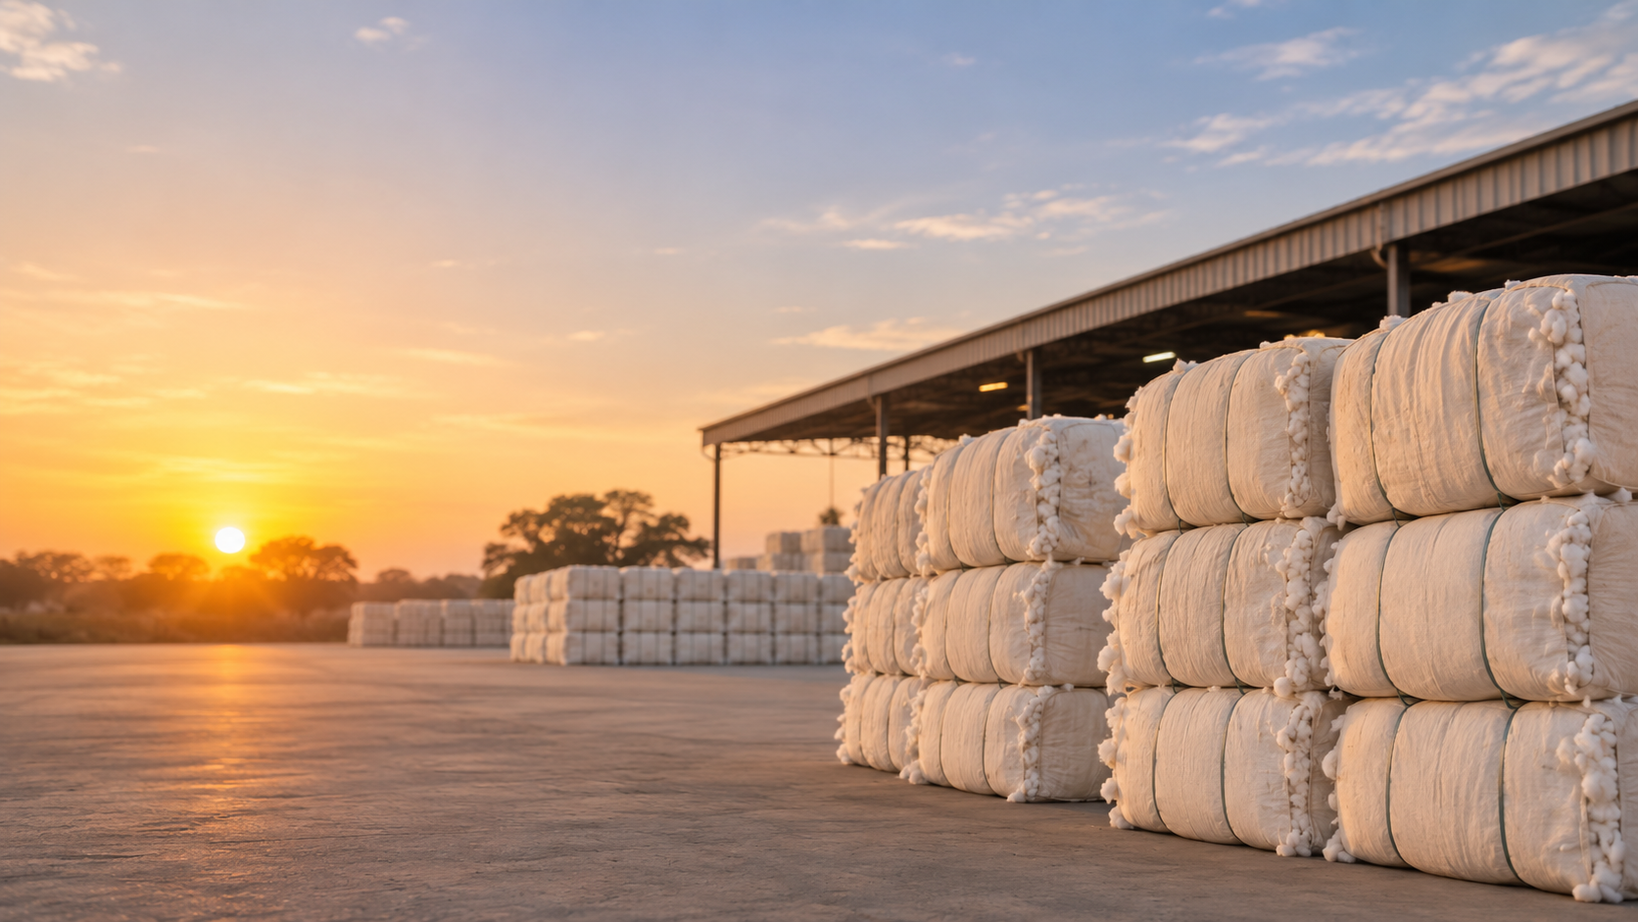
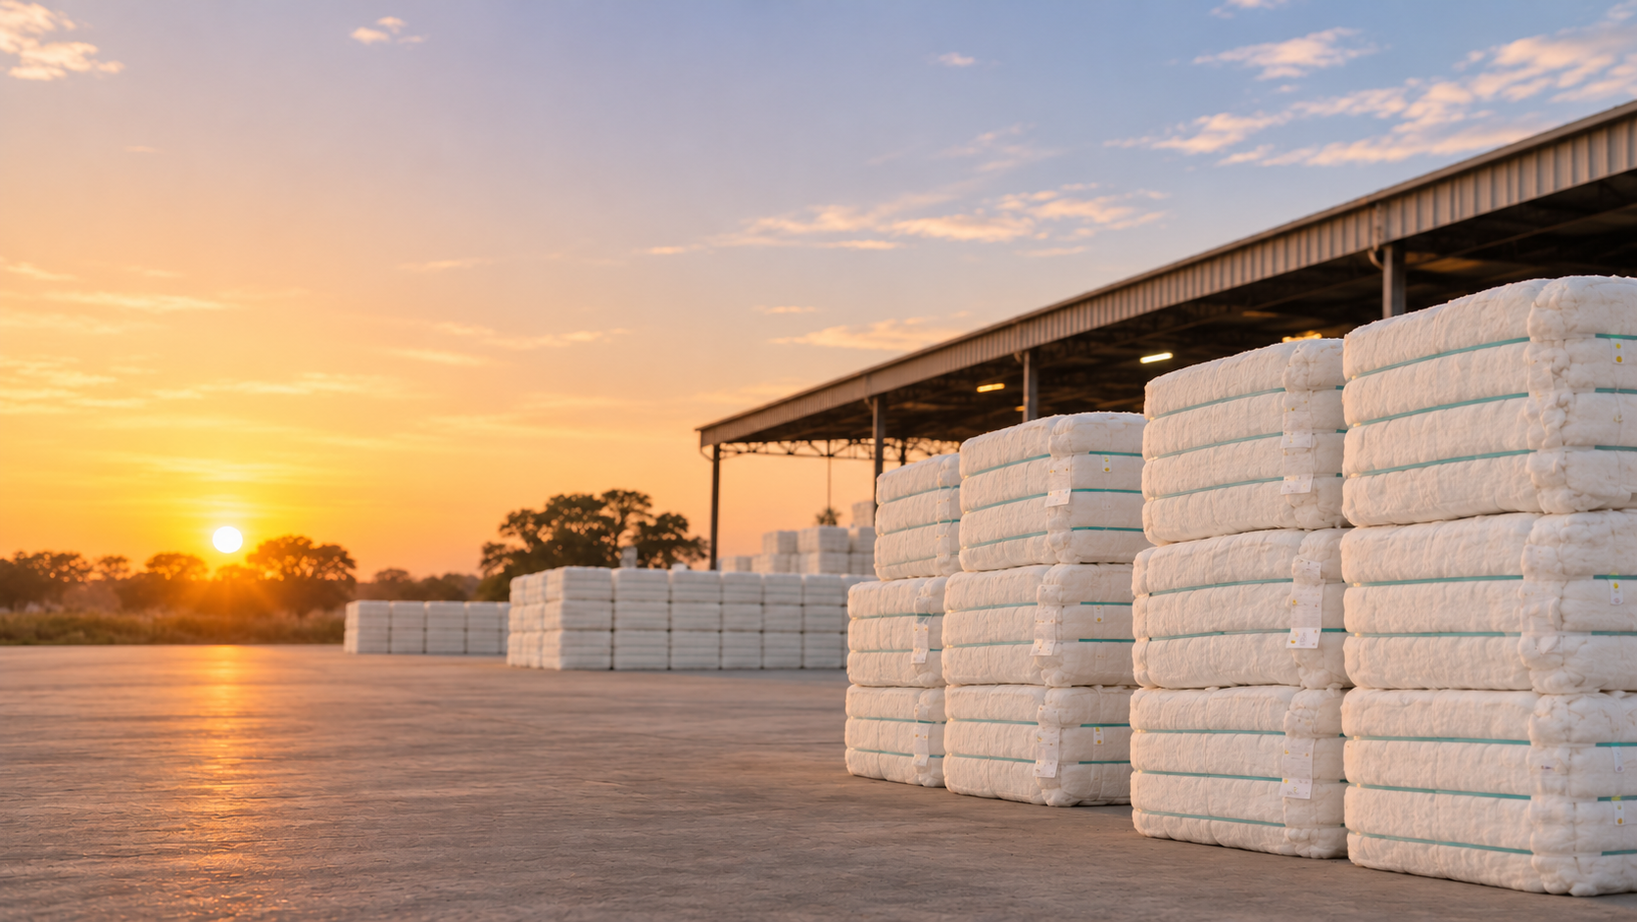
Update: Hero image

diff --git a/src/app/page.tsx b/src/app/page.tsx
@@ -353,43 +353,59 @@ export default function Home() {
         </section>
 
         {/* ---------- Contact Section ---------- */}
-        <section id="contact" className="relative z-20 py-24 sm:py-28 bg-[#1f2a44] text-[#f6f1e8]">
+        <section
+          id="contact"
+          className="relative z-20 py-20 sm:py-24 bg-[#f6f1e8] border-t border-[#b08d57]/20 text-[#2a1e17]"
+        >
           <div className="max-w-6xl mx-auto px-6">
-            <div className="reveal max-w-3xl">
-              <p className="text-xs uppercase font-semibold tracking-[0.24em] text-[#d9bc8a] mb-3">
-                Get in touch
-              </p>
-              <h2 className="font-serif text-3xl sm:text-4xl md:text-5xl text-white font-semibold mb-4">
-                Kalpdaksh Commotrade Pvt Ltd
-              </h2>
-              <p className="text-lg text-[#f6f1e8]/90 font-light mb-2">
-                Indore, Madhya Pradesh, India
-              </p>
-
-              <div className="text-xs text-[#d9bc8a]/80 italic mt-2 mb-8">
-                Direct trade desk inquiries and mill orders are serviced from Indore.
+            <div className="reveal grid grid-cols-1 lg:grid-cols-12 gap-10 lg:gap-12 items-start">
+              {/* Left Editorial Intro */}
+              <div className="lg:col-span-5">
+                <p className="text-xs uppercase font-semibold tracking-[0.24em] text-[#8c6a38] mb-3">
+                  Get in touch
+                </p>
+                <h2 className="font-serif text-3xl sm:text-4xl text-[#2a1e17] font-semibold leading-tight mb-4">
+                  Direct brokerage, handled from Indore.
+                </h2>
+                <p className="text-[#4a3b32] text-base leading-relaxed mb-6">
+                  Reach our trade desk directly for daily cotton market rates,
+                  mill procurement inquiries, and import/export execution.
+                </p>
+                <div className="pt-5 border-t border-[#b08d57]/25">
+                  <p className="font-serif text-base font-semibold text-[#2a1e17]">
+                    Kalpdaksh Commotrade Pvt Ltd
+                  </p>
+                  <p className="text-sm text-[#5c4b40] mt-0.5">
+                    Indore, Madhya Pradesh, India
+                  </p>
+                </div>
               </div>
 
-              {/* Direct Contact Channels */}
-              <div className="grid grid-cols-1 sm:grid-cols-2 lg:grid-cols-3 gap-4 max-w-4xl mb-8">
+              {/* Right Direct Channels */}
+              <div className="lg:col-span-7 flex flex-col gap-4">
                 {/* Mobile / Direct Call */}
                 <a
                   href="tel:+919203825265"
-                  className="group flex items-center gap-4 p-5 rounded-xl bg-white/5 border border-white/10 hover:border-[#b08d57]/60 hover:bg-white/10 transition-all text-left"
+                  className="group flex items-center justify-between gap-4 p-5 sm:p-6 rounded-xl bg-[#fdfbf7] border border-[#b08d57]/25 hover:border-[#b08d57] hover:shadow-md transition-all"
                 >
-                  <div className="w-12 h-12 rounded-lg bg-[#b08d57]/20 border border-[#b08d57]/40 flex items-center justify-center text-[#d9bc8a] group-hover:scale-105 group-hover:bg-[#b08d57] group-hover:text-[#1f2a44] transition-all shrink-0">
-                    <svg className="w-5 h-5" fill="none" stroke="currentColor" viewBox="0 0 24 24" aria-hidden="true">
-                      <path strokeLinecap="round" strokeLinejoin="round" strokeWidth={1.8} d="M3 5a2 2 0 012-2h3.28a1 1 0 01.948.684l1.498 4.493a1 1 0 01-.502 1.21l-2.257 1.13a11.042 11.042 0 005.516 5.516l1.13-2.257a1 1 0 011.21-.502l4.493 1.498a1 1 0 01.684.949V19a2 2 0 01-2 2h-1C9.716 21 3 14.284 3 6V5z" />
-                    </svg>
+                  <div className="flex items-center gap-4 min-w-0">
+                    <div className="w-12 h-12 rounded-lg bg-[#b08d57]/15 border border-[#b08d57]/35 flex items-center justify-center text-[#8c6a38] group-hover:scale-105 group-hover:bg-[#b08d57] group-hover:text-white transition-all shrink-0">
+                      <svg className="w-5 h-5" fill="none" stroke="currentColor" viewBox="0 0 24 24" aria-hidden="true">
+                        <path strokeLinecap="round" strokeLinejoin="round" strokeWidth={1.8} d="M3 5a2 2 0 012-2h3.28a1 1 0 01.948.684l1.498 4.493a1 1 0 01-.502 1.21l-2.257 1.13a11.042 11.042 0 005.516 5.516l1.13-2.257a1 1 0 011.21-.502l4.493 1.498a1 1 0 01.684.949V19a2 2 0 01-2 2h-1C9.716 21 3 14.284 3 6V5z" />
+                      </svg>
+                    </div>
+                    <div className="min-w-0">
+                      <span className="block text-[11px] uppercase tracking-[0.16em] text-[#8c6a38] font-semibold mb-0.5">
+                        Direct Mobile / Trade Desk
+                      </span>
+                      <span className="block font-serif text-lg sm:text-xl text-[#2a1e17] font-semibold tracking-wide">
+                        +91 92038 25265
+                      </span>
+                    </div>
                   </div>
-                  <div className="min-w-0">
-                    <span className="block text-xs uppercase tracking-[0.18em] text-[#d9bc8a] font-medium mb-1">
-                      Direct Mobile / Trade Desk
-                    </span>
-                    <span className="block font-serif text-lg sm:text-xl text-white font-semibold tracking-wide truncate">
-                      +91 92038 25265
-                    </span>
-                  </div>
+                  <span className="text-xs uppercase tracking-[0.14em] font-semibold text-[#8c6a38] group-hover:translate-x-1 transition-transform shrink-0 hidden sm:inline">
+                    Call &rarr;
+                  </span>
                 </a>
 
                 {/* WhatsApp */}
@@ -397,21 +413,26 @@ export default function Home() {
                   href="https://walink.me/6coh00"
                   target="_blank"
                   rel="noopener noreferrer"
-                  className="group flex items-center gap-4 p-5 rounded-xl bg-white/5 border border-white/10 hover:border-[#25D366]/60 hover:bg-white/10 transition-all text-left"
+                  className="group flex items-center justify-between gap-4 p-5 sm:p-6 rounded-xl bg-[#fdfbf7] border border-[#b08d57]/25 hover:border-[#16a34a]/60 hover:shadow-md transition-all"
                 >
-                  <div className="w-12 h-12 rounded-lg bg-[#25D366]/20 border border-[#25D366]/40 flex items-center justify-center text-[#25D366] group-hover:scale-105 group-hover:bg-[#25D366] group-hover:text-white transition-all shrink-0">
-                    <svg className="w-6 h-6 fill-current" viewBox="0 0 24 24" aria-hidden="true">
-                      <path d="M.057 24l1.687-6.163c-1.041-1.804-1.588-3.849-1.587-5.946.003-6.556 5.338-11.891 11.893-11.891 3.181.001 6.167 1.24 8.413 3.488 2.245 2.248 3.481 5.236 3.48 8.414-.003 6.557-5.338 11.892-11.893 11.892-1.99-.001-3.951-.5-5.688-1.448l-6.305 1.654zm6.597-3.807c1.676.995 3.276 1.591 5.392 1.592 5.448 0 9.886-4.434 9.889-9.885.002-5.462-4.415-9.89-9.881-9.892-5.452 0-9.887 4.434-9.889 9.884-.001 2.225.651 3.891 1.746 5.634l-.999 3.648 3.742-.981zm11.387-5.464c-.074-.124-.272-.198-.57-.347-.297-.149-1.758-.868-2.031-.967-.272-.099-.47-.149-.669.149-.198.297-.768.967-.941 1.165-.173.198-.347.223-.644.074-.297-.149-1.255-.462-2.39-1.475-.883-.788-1.48-1.761-1.653-2.059-.173-.297-.018-.458.13-.606.134-.133.297-.347.446-.521.151-.172.2-.296.3-.495.099-.198.05-.372-.025-.521-.075-.148-.669-1.611-.916-2.206-.242-.579-.487-.501-.669-.51l-.57-.01c-.198 0-.52.074-.792.372s-1.04 1.016-1.04 2.479 1.065 2.876 1.213 3.074c.149.198 2.095 3.2 5.076 4.487.709.306 1.263.489 1.694.626.712.226 1.36.194 1.872.118.571-.085 1.758-.719 2.006-1.413.248-.695.248-1.29.173-1.414z" />
-                    </svg>
+                  <div className="flex items-center gap-4 min-w-0">
+                    <div className="w-12 h-12 rounded-lg bg-[#16a34a]/12 border border-[#16a34a]/30 flex items-center justify-center text-[#15803d] group-hover:scale-105 group-hover:bg-[#16a34a] group-hover:text-white transition-all shrink-0">
+                      <svg className="w-6 h-6 fill-current" viewBox="0 0 24 24" aria-hidden="true">
+                        <path d="M.057 24l1.687-6.163c-1.041-1.804-1.588-3.849-1.587-5.946.003-6.556 5.338-11.891 11.893-11.891 3.181.001 6.167 1.24 8.413 3.488 2.245 2.248 3.481 5.236 3.48 8.414-.003 6.557-5.338 11.892-11.893 11.892-1.99-.001-3.951-.5-5.688-1.448l-6.305 1.654zm6.597-3.807c1.676.995 3.276 1.591 5.392 1.592 5.448 0 9.886-4.434 9.889-9.885.002-5.462-4.415-9.89-9.881-9.892-5.452 0-9.887 4.434-9.889 9.884-.001 2.225.651 3.891 1.746 5.634l-.999 3.648 3.742-.981zm11.387-5.464c-.074-.124-.272-.198-.57-.347-.297-.149-1.758-.868-2.031-.967-.272-.099-.47-.149-.669.149-.198.297-.768.967-.941 1.165-.173.198-.347.223-.644.074-.297-.149-1.255-.462-2.39-1.475-.883-.788-1.48-1.761-1.653-2.059-.173-.297-.018-.458.13-.606.134-.133.297-.347.446-.521.151-.172.2-.296.3-.495.099-.198.05-.372-.025-.521-.075-.148-.669-1.611-.916-2.206-.242-.579-.487-.501-.669-.51l-.57-.01c-.198 0-.52.074-.792.372s-1.04 1.016-1.04 2.479 1.065 2.876 1.213 3.074c.149.198 2.095 3.2 5.076 4.487.709.306 1.263.489 1.694.626.712.226 1.36.194 1.872.118.571-.085 1.758-.719 2.006-1.413.248-.695.248-1.29.173-1.414z" />
+                      </svg>
+                    </div>
+                    <div className="min-w-0">
+                      <span className="block text-[11px] uppercase tracking-[0.16em] text-[#15803d] font-semibold mb-0.5">
+                        WhatsApp Direct Desk
+                      </span>
+                      <span className="block font-serif text-lg sm:text-xl text-[#2a1e17] font-semibold tracking-wide">
+                        Chat on WhatsApp
+                      </span>
+                    </div>
                   </div>
-                  <div className="min-w-0">
-                    <span className="block text-xs uppercase tracking-[0.18em] text-[#25D366] font-medium mb-1">
-                      WhatsApp Direct Desk
-                    </span>
-                    <span className="block font-serif text-lg sm:text-xl text-white font-semibold tracking-wide truncate">
-                      Chat on WhatsApp &rarr;
-                    </span>
-                  </div>
+                  <span className="text-xs uppercase tracking-[0.14em] font-semibold text-[#15803d] group-hover:translate-x-1 transition-transform shrink-0 hidden sm:inline">
+                    Message &rarr;
+                  </span>
                 </a>
 
                 {/* LinkedIn */}
@@ -419,72 +440,176 @@ export default function Home() {
                   href="https://www.linkedin.com/company/kalpdaksh-commotrade-pvt-ltd/home/"
                   target="_blank"
                   rel="noopener noreferrer"
-                  className="group flex items-center gap-4 p-5 rounded-xl bg-white/5 border border-white/10 hover:border-[#0A66C2]/60 hover:bg-white/10 transition-all text-left"
+                  className="group flex items-center justify-between gap-4 p-5 sm:p-6 rounded-xl bg-[#fdfbf7] border border-[#b08d57]/25 hover:border-[#0A66C2]/60 hover:shadow-md transition-all"
                 >
-                  <div className="w-12 h-12 rounded-lg bg-[#0A66C2]/20 border border-[#0A66C2]/40 flex items-center justify-center text-[#0A66C2] group-hover:scale-105 group-hover:bg-[#0A66C2] group-hover:text-white transition-all shrink-0">
-                    <svg className="w-5 h-5 fill-current" viewBox="0 0 24 24" aria-hidden="true">
-                      <path d="M19 3a2 2 0 0 1 2 2v14a2 2 0 0 1-2 2H5a2 2 0 0 1-2-2V5a2 2 0 0 1 2-2h14m-.5 15.5v-5.3a3.26 3.26 0 0 0-3.26-3.26c-.85 0-1.84.52-2.28 1.3v-1.11h-2.79v8.37h2.79v-4.93c0-.77.62-1.4 1.39-1.4a1.4 1.4 0 0 1 1.4 1.4v4.93h2.75M6.46 10.9h2.76v8.37H6.46v-8.37M7.84 6.2a1.62 1.62 0 1 0 0 3.24 1.62 1.62 0 0 0 0-3.24z" />
-                    </svg>
+                  <div className="flex items-center gap-4 min-w-0">
+                    <div className="w-12 h-12 rounded-lg bg-[#0A66C2]/10 border border-[#0A66C2]/25 flex items-center justify-center text-[#0A66C2] group-hover:scale-105 group-hover:bg-[#0A66C2] group-hover:text-white transition-all shrink-0">
+                      <svg className="w-5 h-5 fill-current" viewBox="0 0 24 24" aria-hidden="true">
+                        <path d="M19 3a2 2 0 0 1 2 2v14a2 2 0 0 1-2 2H5a2 2 0 0 1-2-2V5a2 2 0 0 1 2-2h14m-.5 15.5v-5.3a3.26 3.26 0 0 0-3.26-3.26c-.85 0-1.84.52-2.28 1.3v-1.11h-2.79v8.37h2.79v-4.93c0-.77.62-1.4 1.39-1.4a1.4 1.4 0 0 1 1.4 1.4v4.93h2.75M6.46 10.9h2.76v8.37H6.46v-8.37M7.84 6.2a1.62 1.62 0 1 0 0 3.24 1.62 1.62 0 0 0 0-3.24z" />
+                      </svg>
+                    </div>
+                    <div className="min-w-0">
+                      <span className="block text-[11px] uppercase tracking-[0.16em] text-[#0A66C2] font-semibold mb-0.5">
+                        Official LinkedIn
+                      </span>
+                      <span className="block font-serif text-lg sm:text-xl text-[#2a1e17] font-semibold tracking-wide">
+                        Kalpdaksh Commotrade Pvt Ltd
+                      </span>
+                    </div>
                   </div>
-                  <div className="min-w-0">
-                    <span className="block text-xs uppercase tracking-[0.18em] text-[#0A66C2] font-medium mb-1">
-                      Official LinkedIn
-                    </span>
-                    <span className="block font-serif text-lg sm:text-xl text-white font-semibold tracking-wide truncate">
-                      Company Profile &rarr;
-                    </span>
-                  </div>
+                  <span className="text-xs uppercase tracking-[0.14em] font-semibold text-[#0A66C2] group-hover:translate-x-1 transition-transform shrink-0 hidden sm:inline">
+                    Profile &rarr;
+                  </span>
                 </a>
-              </div>
-
-              <div className="pt-2">
-                <Link
-                  href="#top"
-                  className="inline-flex items-center justify-center border border-[#f6f1e8]/40 hover:border-[#f6f1e8] hover:bg-white/10 text-[#f6f1e8] text-xs uppercase font-medium tracking-[0.14em] px-6 py-3 rounded transition-colors"
-                >
-                  Back to top &uarr;
-                </Link>
               </div>
             </div>
           </div>
         </section>
       </main>
 
-      {/* ---------- Simple Footer ---------- */}
-      <footer className="relative z-20 bg-[#18213a] border-t border-white/10 py-6 text-xs text-[#f6f1e8]/60 tracking-wider">
-        <div className="max-w-6xl mx-auto px-6 flex flex-col sm:flex-row items-center justify-between gap-4 text-center sm:text-left">
-          <p>
-            &copy; 2026 Kalpdaksh Commotrade Pvt Ltd &middot; Indore, Madhya
-            Pradesh
-          </p>
-          <div className="flex flex-wrap items-center justify-center gap-5 sm:gap-6 text-[#f6f1e8]/80">
-            <a
-              href="tel:+919203825265"
-              className="hover:text-white transition-colors flex items-center gap-1.5"
-            >
-              <span>+91 92038 25265</span>
-            </a>
-            <span className="text-white/20 hidden sm:inline">&middot;</span>
-            <a
-              href="https://walink.me/6coh00"
-              target="_blank"
-              rel="noopener noreferrer"
-              className="text-[#25D366] hover:text-[#3ce37c] transition-colors font-medium flex items-center gap-1.5"
-            >
-              <span>WhatsApp Desk &rarr;</span>
-            </a>
-            <span className="text-white/20 hidden sm:inline">&middot;</span>
-            <a
-              href="https://www.linkedin.com/company/kalpdaksh-commotrade-pvt-ltd/home/"
-              target="_blank"
-              rel="noopener noreferrer"
-              className="text-[#0A66C2] hover:text-[#378fe9] transition-colors font-medium flex items-center gap-1.5"
-            >
-              <svg className="w-3.5 h-3.5 fill-current" viewBox="0 0 24 24" aria-hidden="true">
-                <path d="M19 3a2 2 0 0 1 2 2v14a2 2 0 0 1-2 2H5a2 2 0 0 1-2-2V5a2 2 0 0 1 2-2h14m-.5 15.5v-5.3a3.26 3.26 0 0 0-3.26-3.26c-.85 0-1.84.52-2.28 1.3v-1.11h-2.79v8.37h2.79v-4.93c0-.77.62-1.4 1.39-1.4a1.4 1.4 0 0 1 1.4 1.4v4.93h2.75M6.46 10.9h2.76v8.37H6.46v-8.37M7.84 6.2a1.62 1.62 0 1 0 0 3.24 1.62 1.62 0 0 0 0-3.24z" />
-              </svg>
-              <span>LinkedIn &rarr;</span>
-            </a>
+      {/* ---------- Executive Footer ---------- */}
+      <footer className="relative z-20 bg-[#1a1410] border-t border-[#b08d57]/35 text-[#f6f1e8]">
+        <div className="max-w-6xl mx-auto px-6">
+          <div className="py-14 sm:py-16 grid grid-cols-1 sm:grid-cols-2 lg:grid-cols-12 gap-10 lg:gap-8">
+            {/* Brand & Heritage Column */}
+            <div className="lg:col-span-5">
+              <Link
+                href="#top"
+                className="inline-flex items-center bg-[#fdfbf7] rounded-xl px-4 py-2.5 border border-[#b08d57]/35 shadow-sm mb-5 hover:border-[#b08d57] transition-colors"
+                aria-label="Kalpdaksh Commotrade Home"
+              >
+                <Image
+                  src="/assets/full-logo.png"
+                  alt="Kalpdaksh Commotrade Pvt Ltd"
+                  width={260}
+                  height={57}
+                  className="h-10 w-auto object-contain"
+                />
+              </Link>
+              <p className="text-sm text-[#f6f1e8]/75 leading-relaxed max-w-sm mb-6">
+                A family-run cotton brokerage and commission house serving leading
+                spinning mills across India and trade partners overseas since 1970.
+              </p>
+              <div className="flex items-center gap-3">
+                <a
+                  href="https://walink.me/6coh00"
+                  target="_blank"
+                  rel="noopener noreferrer"
+                  aria-label="WhatsApp Direct Desk"
+                  className="w-9 h-9 rounded-lg border border-[#b08d57]/30 bg-white/5 flex items-center justify-center text-[#4ade80] hover:bg-[#16a34a] hover:text-white hover:border-[#16a34a] transition-all"
+                >
+                  <svg className="w-4 h-4 fill-current" viewBox="0 0 24 24" aria-hidden="true">
+                    <path d="M.057 24l1.687-6.163c-1.041-1.804-1.588-3.849-1.587-5.946.003-6.556 5.338-11.891 11.893-11.891 3.181.001 6.167 1.24 8.413 3.488 2.245 2.248 3.481 5.236 3.48 8.414-.003 6.557-5.338 11.892-11.893 11.892-1.99-.001-3.951-.5-5.688-1.448l-6.305 1.654zm6.597-3.807c1.676.995 3.276 1.591 5.392 1.592 5.448 0 9.886-4.434 9.889-9.885.002-5.462-4.415-9.89-9.881-9.892-5.452 0-9.887 4.434-9.889 9.884-.001 2.225.651 3.891 1.746 5.634l-.999 3.648 3.742-.981zm11.387-5.464c-.074-.124-.272-.198-.57-.347-.297-.149-1.758-.868-2.031-.967-.272-.099-.47-.149-.669.149-.198.297-.768.967-.941 1.165-.173.198-.347.223-.644.074-.297-.149-1.255-.462-2.39-1.475-.883-.788-1.48-1.761-1.653-2.059-.173-.297-.018-.458.13-.606.134-.133.297-.347.446-.521.151-.172.2-.296.3-.495.099-.198.05-.372-.025-.521-.075-.148-.669-1.611-.916-2.206-.242-.579-.487-.501-.669-.51l-.57-.01c-.198 0-.52.074-.792.372s-1.04 1.016-1.04 2.479 1.065 2.876 1.213 3.074c.149.198 2.095 3.2 5.076 4.487.709.306 1.263.489 1.694.626.712.226 1.36.194 1.872.118.571-.085 1.758-.719 2.006-1.413.248-.695.248-1.29.173-1.414z" />
+                  </svg>
+                </a>
+                <a
+                  href="https://www.linkedin.com/company/kalpdaksh-commotrade-pvt-ltd/home/"
+                  target="_blank"
+                  rel="noopener noreferrer"
+                  aria-label="Official LinkedIn Company Profile"
+                  className="w-9 h-9 rounded-lg border border-[#b08d57]/30 bg-white/5 flex items-center justify-center text-[#70b5f9] hover:bg-[#0A66C2] hover:text-white hover:border-[#0A66C2] transition-all"
+                >
+                  <svg className="w-4 h-4 fill-current" viewBox="0 0 24 24" aria-hidden="true">
+                    <path d="M19 3a2 2 0 0 1 2 2v14a2 2 0 0 1-2 2H5a2 2 0 0 1-2-2V5a2 2 0 0 1 2-2h14m-.5 15.5v-5.3a3.26 3.26 0 0 0-3.26-3.26c-.85 0-1.84.52-2.28 1.3v-1.11h-2.79v8.37h2.79v-4.93c0-.77.62-1.4 1.39-1.4a1.4 1.4 0 0 1 1.4 1.4v4.93h2.75M6.46 10.9h2.76v8.37H6.46v-8.37M7.84 6.2a1.62 1.62 0 1 0 0 3.24 1.62 1.62 0 0 0 0-3.24z" />
+                  </svg>
+                </a>
+              </div>
+            </div>
+
+            {/* Navigation Column */}
+            <div className="lg:col-span-3">
+              <h3 className="text-xs uppercase font-semibold tracking-[0.22em] text-[#d9bc8a] mb-4">
+                Navigation
+              </h3>
+              <ul className="space-y-2.5 text-sm text-[#f6f1e8]/80">
+                <li>
+                  <Link href="#top" className="hover:text-[#d9bc8a] transition-colors">
+                    Home
+                  </Link>
+                </li>
+                <li>
+                  <Link href="#about" className="hover:text-[#d9bc8a] transition-colors">
+                    About Us
+                  </Link>
+                </li>
+                <li>
+                  <Link href="#heritage" className="hover:text-[#d9bc8a] transition-colors">
+                    Heritage
+                  </Link>
+                </li>
+                <li>
+                  <Link href="#services" className="hover:text-[#d9bc8a] transition-colors">
+                    Services
+                  </Link>
+                </li>
+                <li>
+                  <Link href="#mills" className="hover:text-[#d9bc8a] transition-colors">
+                    Mill Relationships
+                  </Link>
+                </li>
+                <li>
+                  <Link href="#contact" className="hover:text-[#d9bc8a] transition-colors">
+                    Contact Us
+                  </Link>
+                </li>
+              </ul>
+            </div>
+
+            {/* Trade Desk Column */}
+            <div className="lg:col-span-4">
+              <h3 className="text-xs uppercase font-semibold tracking-[0.22em] text-[#d9bc8a] mb-4">
+                Trade Desk
+              </h3>
+              <p className="font-serif text-lg text-white font-medium mb-1">
+                Indore, Madhya Pradesh
+              </p>
+              <p className="text-sm text-[#f6f1e8]/70 mb-4">
+                Direct cotton procurement &amp; commission services across India and overseas.
+              </p>
+              <div className="space-y-2 text-sm">
+                <a
+                  href="tel:+919203825265"
+                  className="block text-[#f6f1e8]/90 hover:text-[#d9bc8a] transition-colors font-medium"
+                >
+                  +91 92038 25265
+                </a>
+                <a
+                  href="https://walink.me/6coh00"
+                  target="_blank"
+                  rel="noopener noreferrer"
+                  className="block text-[#4ade80] hover:text-[#86efac] transition-colors font-medium"
+                >
+                  WhatsApp Direct Desk &rarr;
+                </a>
+                <a
+                  href="https://www.linkedin.com/company/kalpdaksh-commotrade-pvt-ltd/home/"
+                  target="_blank"
+                  rel="noopener noreferrer"
+                  className="block text-[#70b5f9] hover:text-[#93c5fd] transition-colors font-medium"
+                >
+                  LinkedIn Profile &rarr;
+                </a>
+              </div>
+
+              <div className="mt-6">
+                <Link
+                  href="#top"
+                  className="inline-flex items-center justify-center border border-[#b08d57]/40 hover:border-[#d9bc8a] hover:bg-[#b08d57]/15 text-[#f6f1e8] text-xs uppercase font-medium tracking-[0.14em] px-4 py-2.5 rounded-lg transition-colors"
+                >
+                  Back to top &uarr;
+                </Link>
+              </div>
+            </div>
+          </div>
+
+          {/* Bottom Copyright Bar */}
+          <div className="border-t border-[#f6f1e8]/12 py-6 flex flex-col sm:flex-row items-center justify-between gap-3 text-xs text-[#f6f1e8]/65 tracking-wide text-center sm:text-left">
+            <p>
+              &copy; 2026 Kalpdaksh Commotrade Pvt Ltd. All rights reserved.
+            </p>
+            <p className="text-[#d9bc8a]/80">
+              Cotton Brokerage &amp; Commission &middot; Indore, India
+            </p>
           </div>
         </div>
       </footer>
